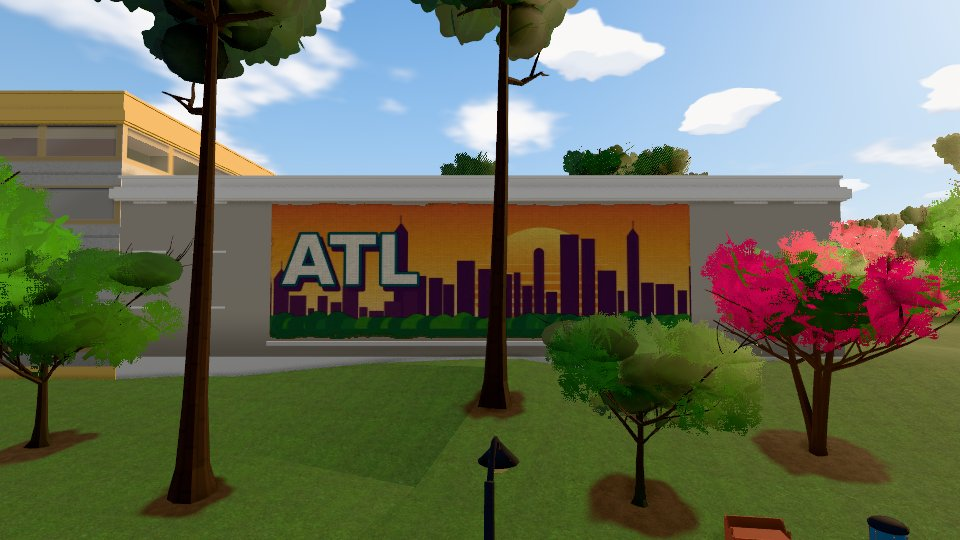
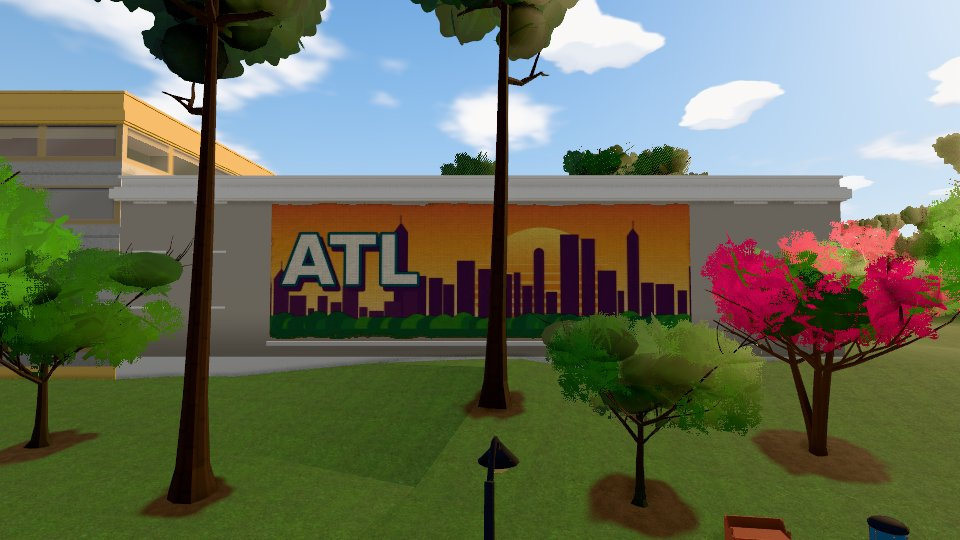
Add the #190 look check: the same pixels once the late files load
Claude-Session: https://claude.ai/code/session_015iEKw1yvfZymgcUq81tsU5

diff --git a/docs/perf/190/late-load.md b/docs/perf/190/late-load.md
@@ -64,7 +64,18 @@ The same within the noise of the ride: the scene at the end of the ride is the s
 
 `node scripts/late-load-look.mjs --tiers high,phone` takes 3 fixed views (the mural nearest the spawn, the trail, a street) after every late group has loaded, with the deferral and with `?lateload=0`, and a second default run for the noise. The pictures are in `look/`.
 
-LOOK_RESULTS
+Mean pixel difference (0 to 255) and the share of pixels that differ by more than 24:
+
+| Tier | View | Late vs `?lateload=0` | Late vs late (noise) |
+|---|---|---|---|
+| phone pbr | mural | 0.00 (0.00%) | 0.00 (0.00%) |
+| phone pbr | trail | 0.00 (0.00%) | 0.00 (0.00%) |
+| phone pbr | street | 0.00 (0.00%) | 0.00 (0.00%) |
+| high pbr | mural | 1.08 (1.14%) | 4.35 (7.78%) |
+| high pbr | trail | 0.90 (0.13%) | 2.06 (0.95%) |
+| high pbr | street | 0.20 (0.01%) | 1.11 (1.55%) |
+
+Phone pbr gives the same pixels. On high pbr, the difference is smaller than the difference between two runs of the same build (the clouds of the high sky move). So once everything has loaded, the look does not change.
 
 ## Tried and rejected: compile the shaders while the physics builds
 
